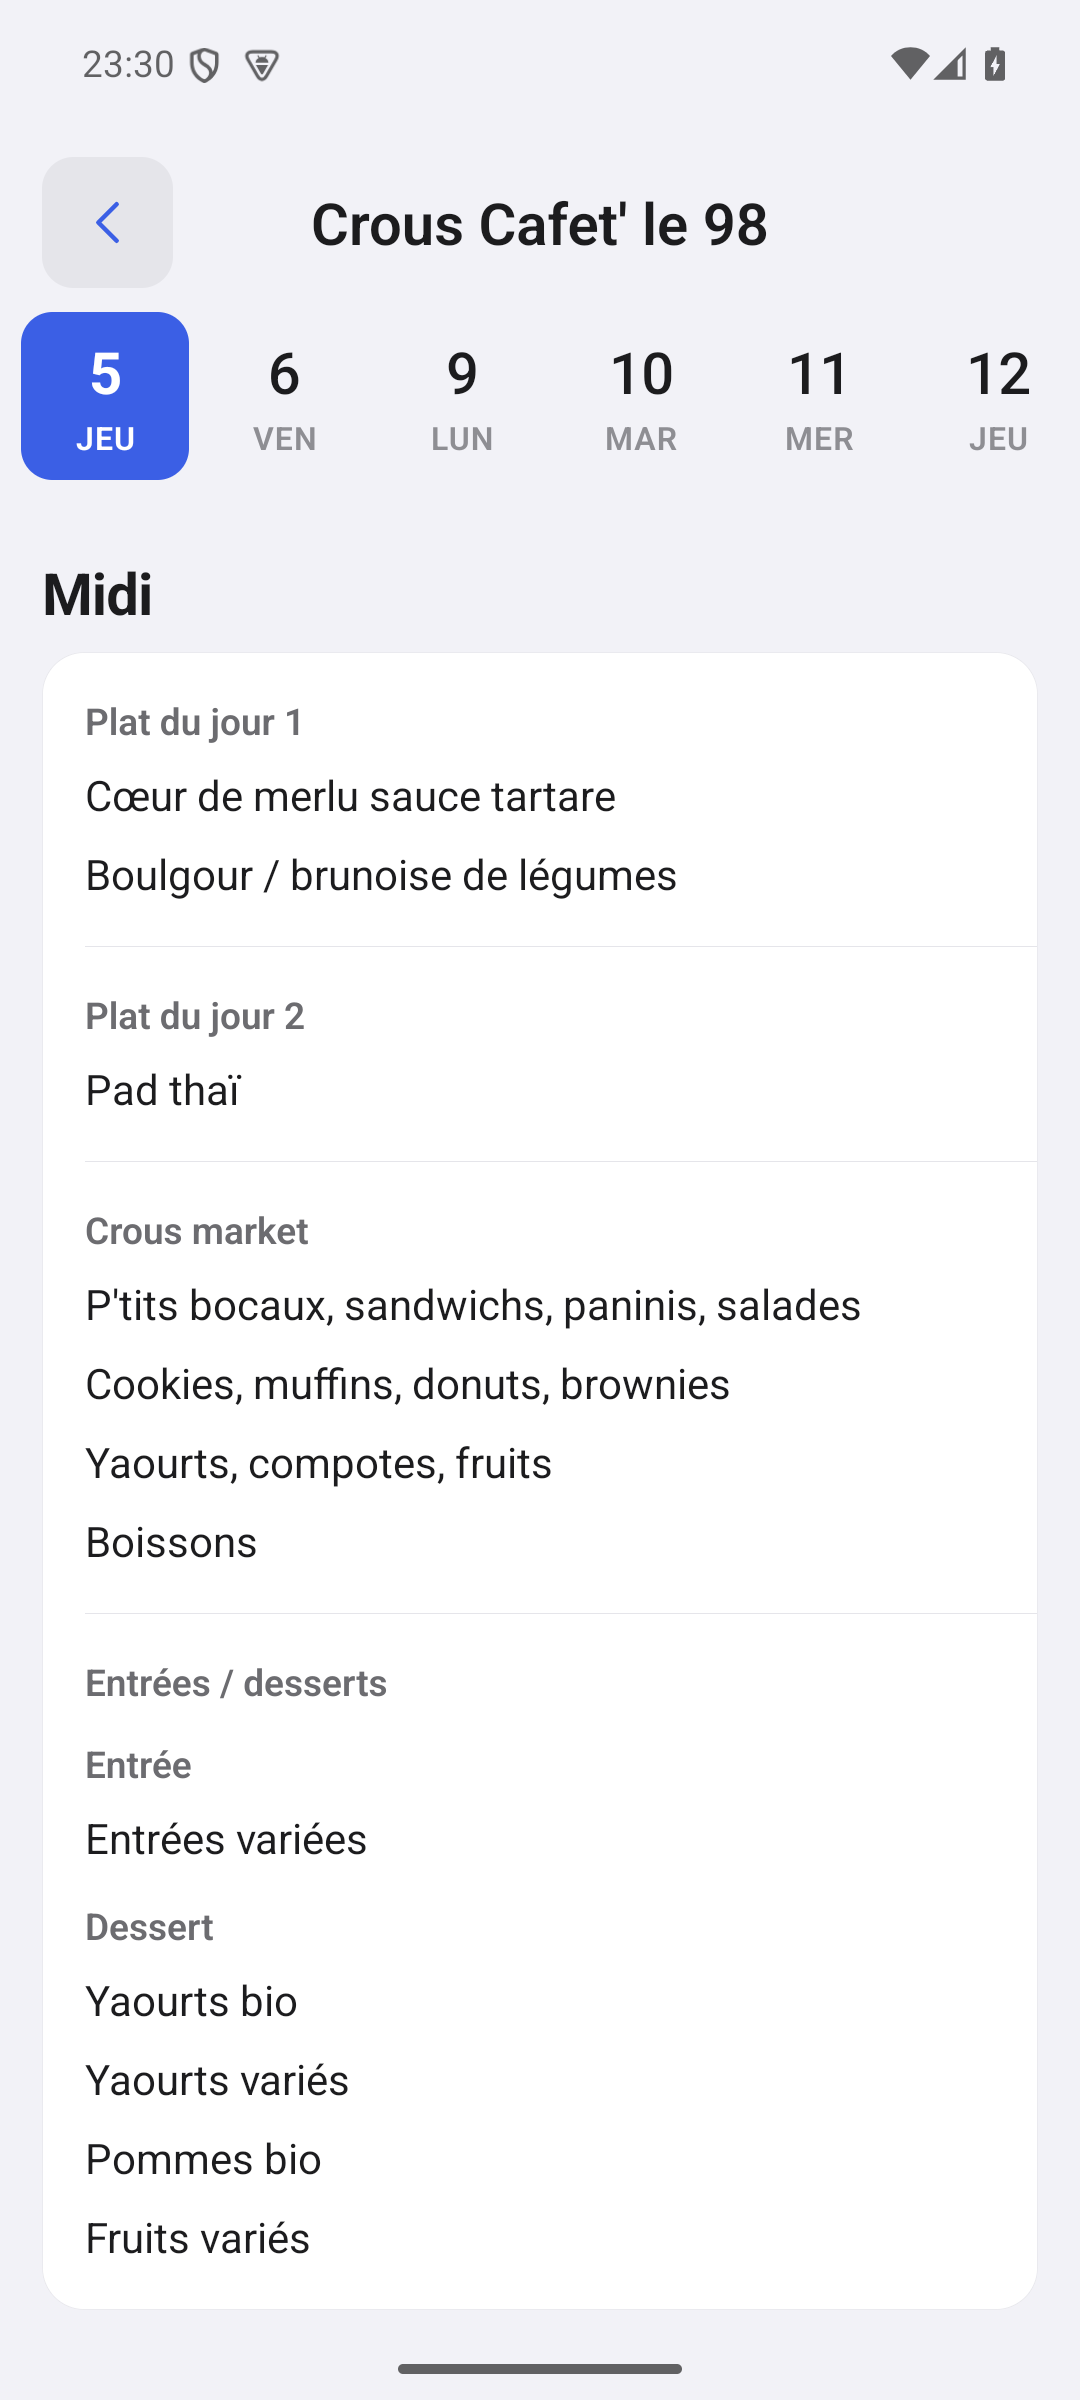
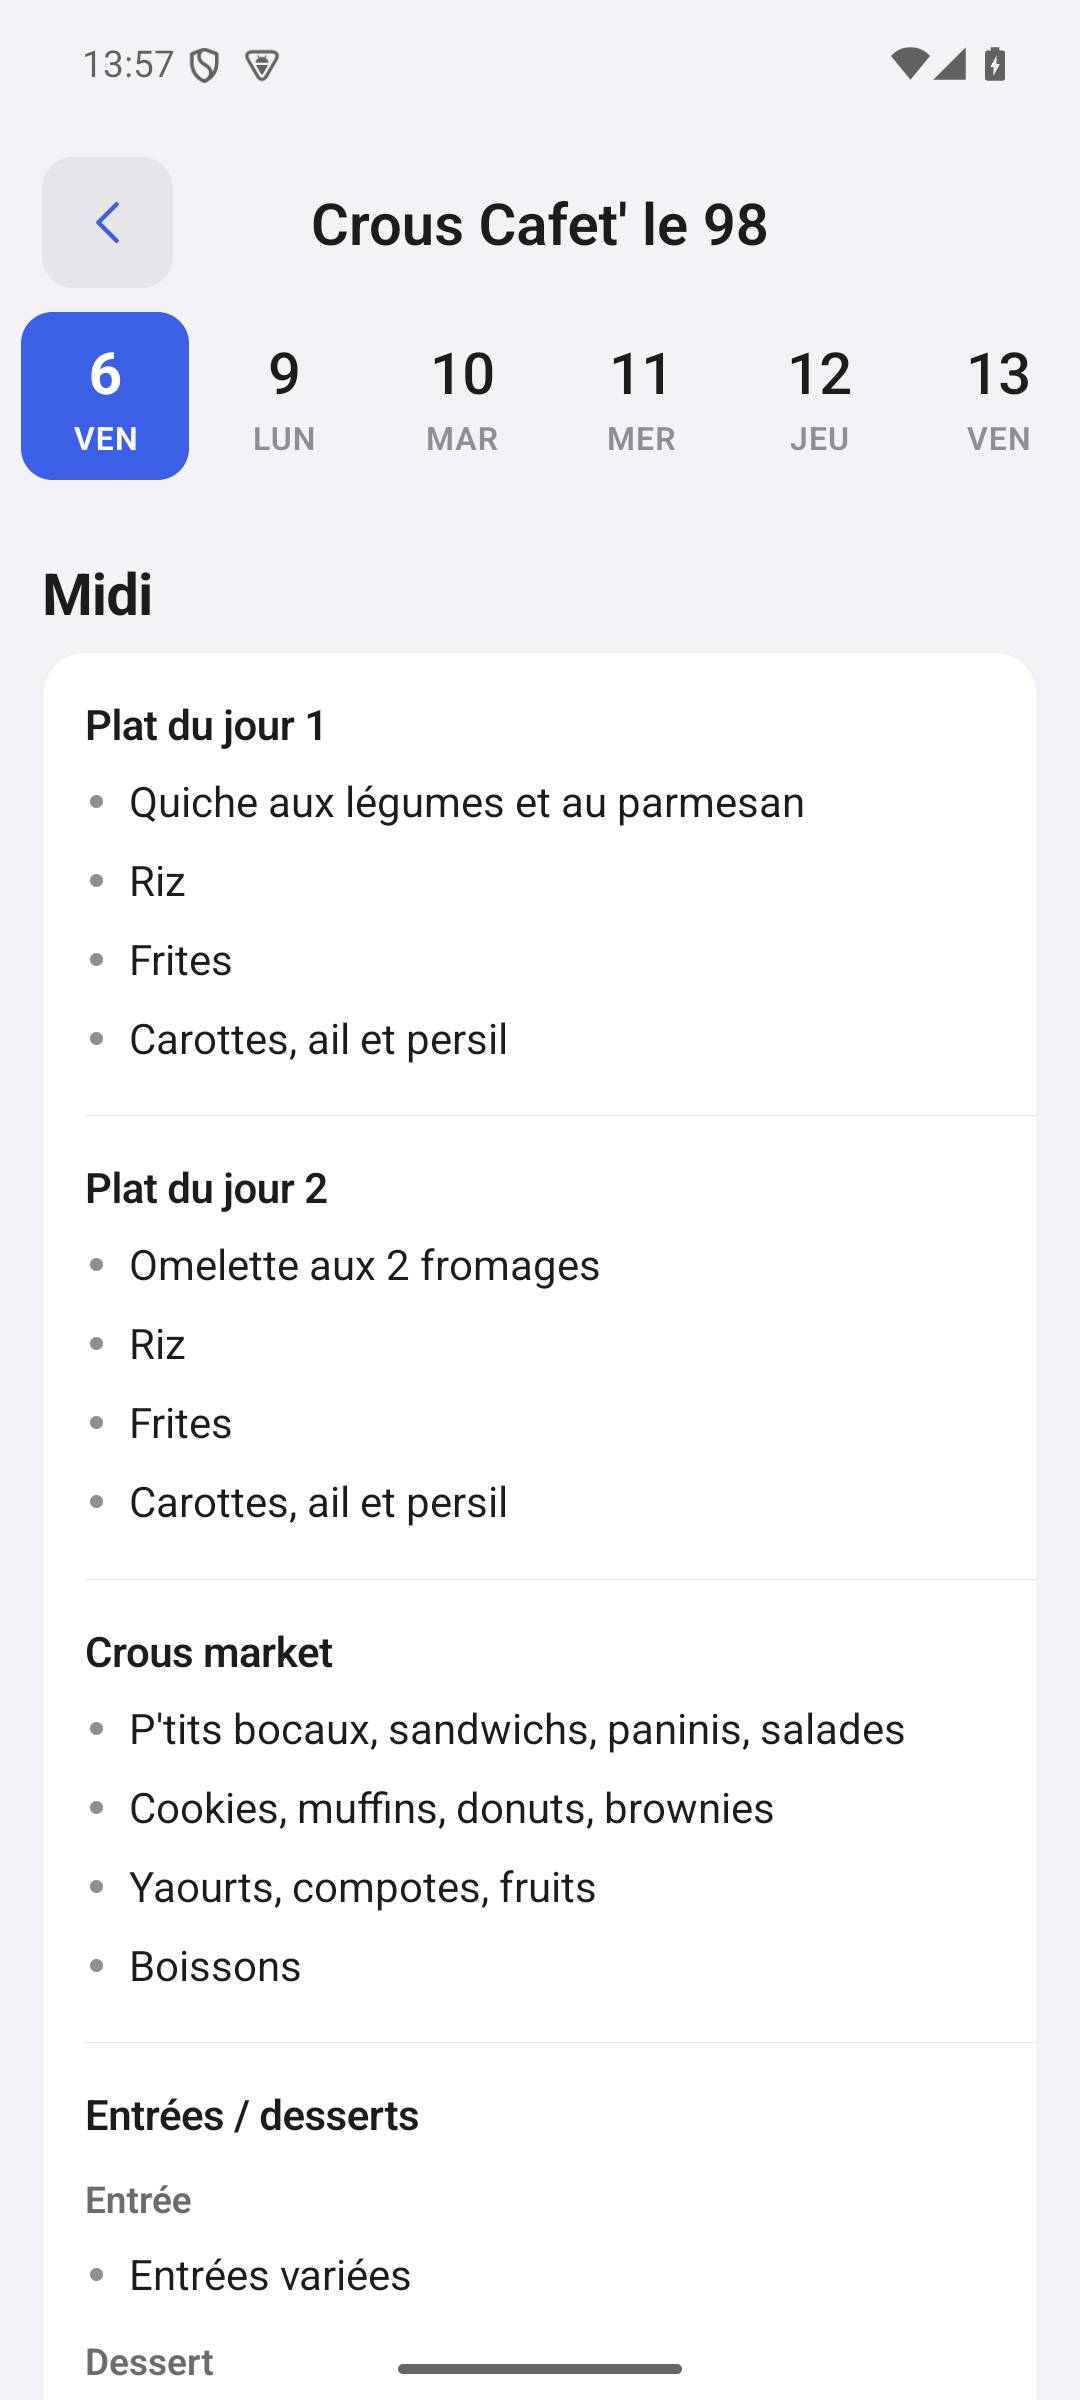
feat: des menus qui se lisent d'un coup d'oeil
La carte d'un repas posait la categorie en petit gris au-dessus de plats
nus : une suite de lignes de texte, ou un plat sur deux lignes passait
pour deux plats. La hierarchie redevient typographique : la categorie en
demi-gras, couleur du texte ; chaque plat derriere une puce discrete, son
retour a la ligne aligne sur le texte ; un filet et de l'air entre deux
categories ; les sous-titres de la source en gris. Ni couleur decorative
ni icone devinee.

diff --git a/src/features/Campus/Crous/components/CrousMealCard.tsx b/src/features/Campus/Crous/components/CrousMealCard.tsx
@@ -23,6 +23,25 @@ interface CrousMealCardProps {
     theme: AppThemeType;
 }
 
+/**
+ * Un plat derriere sa puce : le retour a la ligne s'aligne sur le texte, pas sur la puce, si bien
+ * qu'un plat sur deux lignes ne se confond plus avec deux plats (7-J, troisieme passe).
+ */
+function Plat({ texte, theme, absent = false }: { texte: string; theme: AppThemeType; absent?: boolean }) {
+    return (
+        <View style={styles.plat}>
+            <View style={[styles.puce, { backgroundColor: theme.fontTertiary }]} />
+            <Text style={[styles.texteDuPlat, { color: absent ? theme.fontTertiary : theme.font }]}>{texte}</Text>
+        </View>
+    );
+}
+
+/**
+ * La hierarchie est typographique (review du 2026-11-06, « une suite de lignes de texte ») : la
+ * categorie en demi-gras, couleur du texte, au-dessus de ses plats a puce ; un filet et de l'air entre
+ * deux categories ; les sous-titres de la source (« Autre plat ») en gris. Ni couleur decorative ni
+ * icone devinee : la premiere decorait, la seconde se trompait.
+ */
 export function CrousMealCard({ mealTitle, categories, theme }: CrousMealCardProps) {
     if (!categories || categories.length === 0) return null;
 
@@ -34,18 +53,17 @@ export function CrousMealCard({ mealTitle, categories, theme }: CrousMealCardPro
                     <View key={index}>
                         {index > 0 ? <View style={[styles.filet, { backgroundColor: theme.border }]} /> : null}
                         <View style={styles.categorie}>
-                            {/* Le gris du texte secondaire : une categorie nomme, elle n'agit pas. */}
-                            <Text style={[tokens.texte.intertitre, { color: theme.fontSecondary }]}>{libelleLisible(categorie.name)}</Text>
+                            <Text style={[tokens.texte.titreDeCarte, { color: theme.font }]}>{libelleLisible(categorie.name)}</Text>
                             {categorie.dishes.length > 0 ? categorie.dishes.map((brut, rang) => {
                                 const plat = libelleLisible(brut);
                                 const sousTitre = sousTitreDePlat(plat);
                                 return sousTitre !== null ? (
                                     <Text key={rang} style={[tokens.texte.intertitre, styles.sousTitre, { color: theme.fontSecondary }]}>{sousTitre}</Text>
                                 ) : (
-                                    <Text key={rang} style={[styles.plat, { color: theme.font }]}>{plat}</Text>
+                                    <Plat key={rang} texte={plat} theme={theme} />
                                 );
                             }) : (
-                                <Text style={[styles.plat, { color: theme.fontTertiary }]}>{Translator.get('NOT_SPECIFIED')}</Text>
+                                <Plat texte={Translator.get('NOT_SPECIFIED')} theme={theme} absent />
                             )}
                         </View>
                     </View>
@@ -54,6 +72,10 @@ export function CrousMealCard({ mealTitle, categories, theme }: CrousMealCardPro
         </View>
     );
 }
+
+const PUCE = 5;
+/** La hauteur de ligne du plat : la puce se centre sur la premiere ligne, pas sur le bloc. */
+const LIGNE = 22;
 
 const styles = StyleSheet.create({
     repas: {
@@ -67,16 +89,29 @@ const styles = StyleSheet.create({
     },
     categorie: {
         paddingHorizontal: tokens.space.md,
-        paddingVertical: tokens.space.md,
+        paddingTop: tokens.space.md,
+        paddingBottom: tokens.space.md + tokens.space.xxs,
         gap: tokens.space.sm,
     },
-    // « Autre plat : » et ses pareils, que la source glisse parmi les plats (`sousTitreDePlat`).
     sousTitre: {
         marginTop: tokens.space.xs,
     },
     plat: {
+        flexDirection: 'row',
+        alignItems: 'flex-start',
+        gap: tokens.space.sm + tokens.space.xxs,
+    },
+    puce: {
+        width: PUCE,
+        height: PUCE,
+        borderRadius: PUCE / 2,
+        marginTop: (LIGNE - PUCE) / 2,
+        marginLeft: tokens.space.xxs,
+    },
+    texteDuPlat: {
+        flex: 1,
         fontSize: tokens.fontSize.md,
-        lineHeight: 22,
+        lineHeight: LIGNE,
     },
     filet: {
         height: StyleSheet.hairlineWidth,

diff --git a/docs/features/campus-crous.md b/docs/features/campus-crous.md
@@ -78,8 +78,11 @@ séparent les lignes **sauf autour d'un intertitre** : un titre touche ce qu'il 
 - Le nom du restaurant est le **titre de la barre** ; « Détails » ne nommait rien. Le bandeau ne porte
   plus que les jours, dans les cases du ruban du Planning
   ([`BandeauDeCases`](../../src/shared/ui/BandeauDeCases.tsx)), et le contenu passe dessous en fondu.
-- Un repas est **une seule carte** ([`CrousMealCard`](../../src/features/Campus/Crous/components/CrousMealCard.tsx)) :
-  chaque catégorie en gris, suivie de ses plats, un filet entre deux catégories. Elle posait une carte
+- Un repas est **une seule carte** ([`CrousMealCard`](../../src/features/Campus/Crous/components/CrousMealCard.tsx)),
+  et sa hiérarchie est typographique : la catégorie en demi-gras, couleur du texte, ses plats derrière
+  une puce dont le retour à la ligne s'aligne sur le texte, un filet et de l'air entre deux
+  catégories. La deuxième passe posait la catégorie en petit gris sur des plats nus : la review du
+  2026-11-06 n'y lisait plus qu'« une suite de lignes de texte ». Elle posait une carte
   par catégorie et, devant chaque plat, une icône devinée d'après son nom, qui se trompait :
   « Steak ou poisson » prenait l'icône d'information pour son « ou », des carottes râpées la feuille
   du végétarien.

diff --git a/CHANGELOG.md b/CHANGELOG.md
@@ -38,6 +38,8 @@ une application qui donne l'heure des choses d'un regard.
 - **Les Réglages en pages** : l'accueil ne porte plus que des rangées qui mènent, leur valeur à
   droite ; chaque préférence (notifications, agenda, confidentialité, démarrage, apparence) a sa page,
   qui explique et qui bascule. Le délai des rappels se choisit dans une liste cochée, plus au curseur.
+- **Des menus qui se lisent d'un coup d'œil** : la catégorie en demi-gras, chaque plat derrière sa
+  puce, un filet entre deux catégories ; ni couleur décorative ni icône devinée.
 - **Le fondu des écrans poussés sous le titre** : la barre d'un écran poussé couvre son titre et ses
   boutons, et le contenu se fond juste en dessous, comme sous un grand titre ; il les coupait à
   mi-hauteur.

diff --git a/docs/phase-7/7-j-troisieme-passe.md b/docs/phase-7/7-j-troisieme-passe.md
@@ -36,6 +36,8 @@ parcours froid, chargements.
   (`headerBackgroundContainerStyle`) : fond plein sur toute la barre, fondu dessous, le dégradé
   toujours dans les bords de son parent. Vérifié sur `ukit`, liste des restaurants : la photo se fond
   sous les boutons, le titre reste entier.
-- [ ] T5
+- [x] T5 — la catégorie en demi-gras couleur du texte, les plats derrière une puce (retour à la ligne
+  aligné sur le texte), les sous-titres de la source en gris. Vérifié en sombre et en clair ; capture
+  de la doc remplacée.
 - [ ] T6
 - [ ] T7
